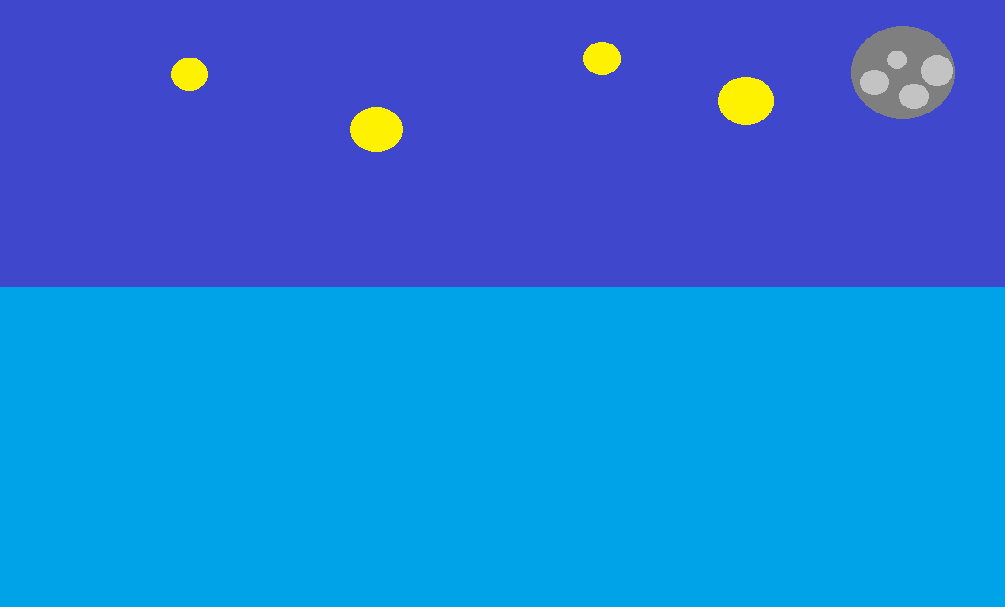
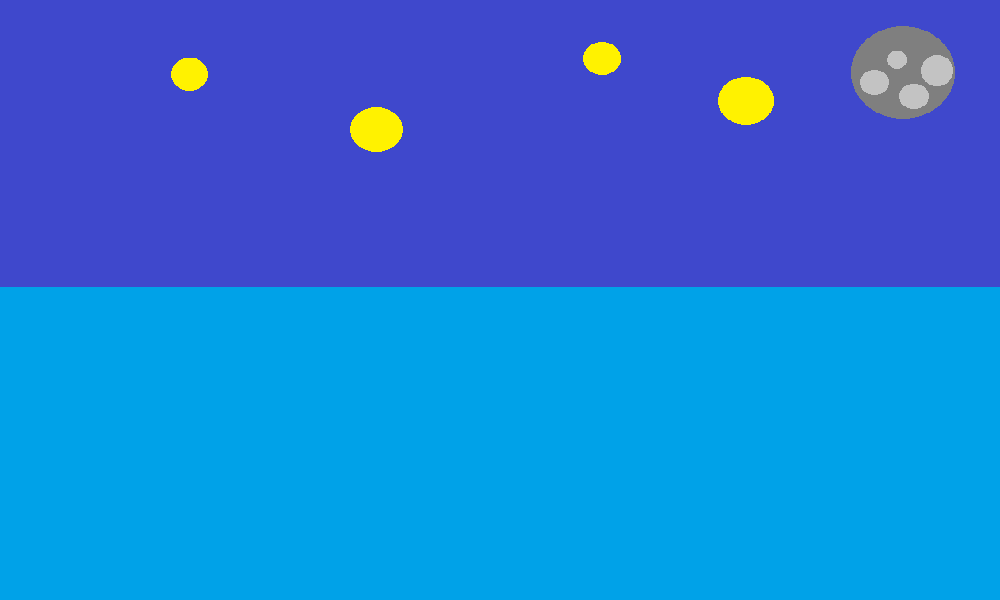
updates

diff --git a/BoatGame/boat.py b/BoatGame/boat.py
@@ -2,75 +2,255 @@ import pgzrun
 from random import randint
 
 WIDTH = 1000
-HEIGHT = 575
+HEIGHT = 600
+
+
 
 shop = Actor("shop")
 shop.pos = 900, 300
 sail = Actor("sail")
 sail.pos = 900, 200
 rock = Actor("rock")
-rock.pos = 1600, 400
+rock.pos = 1600, randint(350, 550)
 play = Actor("play")
 play.pos = 500, 257
 metalblock = Actor("metalblock")
+metalblock.pos = 210, 250
 stoneblock = Actor("stoneblock")
-woodblock = Actor("woodblock") 
+stoneblock.pos = 150, 250
+woodblock = Actor("woodblock")
+woodblock.pos = 90, 250 
 treasurechest = Actor("tresurechest")
+treasurechest.pos = 1600, 400
 flag = Actor("flag")
-game_over = False
+flag.pos = 270, 250
+
 sail_clicked_fun = False
 music_playing = False
 flagplaced = False
 playing = False
-number_of_rocks = 0
-
+number_of_rocks = 99
+money = 0
+woodcount = 5
+stoneblockcount = 2
+metalblockcount = 1
+flagcount = 1
+selected_block = None
+placed_blocks = []
 
 def draw():
     global sail_clicked_fun
     screen.blit("ocean", (0, 0))
     if playing:
-        if sail_clicked_fun and music_playing:        
-            rock.draw()
-        else:
+        if sail_clicked_fun and music_playing: 
+            if number_of_rocks >= 100:
+                treasurechest.draw()      
+            else:
+                rock.draw()
+            for block in placed_blocks:
+                block["actor"].draw()
+
+            screen.draw.text("Money: " + str(money), (500, 10), color="black")
+        else:           
+            #Drawing lines (Start position->(x.pos, y.pos), Stop position->(x.pos, y.pos), color)
+            #Horizontal
+            woodblock.draw()
+            stoneblock.draw()
+            metalblock.draw()
+            flag.draw()
+            for block in placed_blocks:
+                block["actor"].draw()
+
+            screen.draw.text("Money: " + str(money), (850, 520), color="black")
+                     
+            # Draw horizontal grid lines
+            for y in range(286, 600, 60):
+                screen.draw.line((0, y), (600, y), color="black")
+
+            # Draw vertical grid lines
+            for x in range(60, 601, 60):
+                screen.draw.line((x, 286), (x, 586), color="black")
+
+            # Build menu horizontal lines
+            screen.draw.line((60, 220), (300, 220), color="black")
+            screen.draw.line((60, 280), (300, 280), color="black")
+
+            # Build menu vertical dividers
+            for x in range(60, 301, 60):
+                screen.draw.line((x, 220), (x, 280), color="black")
+            
             sail.draw()
             shop.draw()
     else:
         play.draw()
     
-def on_mouse_down(pos):  
-    global playing, game_over 
-    if sail.collidepoint(pos): 
-        sail_clicked()
-    if play.collidepoint(pos) and not sail_clicked_fun:        
-        playing = True
-        buildmode()
-         
+def on_mouse_down(pos, button):
+    global playing, selected_block
+    if not playing or not sail_clicked_fun:  # 🔒 Only allow input before sailing
+        if button == mouse.LEFT:
+            if sail.collidepoint(pos):
+                sail_clicked()
+            elif play.collidepoint(pos) and not sail_clicked_fun:
+                playing = True
+            elif woodblock.collidepoint(pos):
+                selected_block = "wood"
+            elif stoneblock.collidepoint(pos):
+                selected_block = "stone"
+            elif metalblock.collidepoint(pos):
+                selected_block = "metal"
+            elif flag.collidepoint(pos):
+                selected_block = "flag"
+            else:
+                place_block(pos)
+        elif button == mouse.RIGHT:
+            delete_block(pos)
+
+
+        
+        
 def sail_clicked():
-    global sail_clicked_fun, music_playing        
+    global sail_clicked_fun, music_playing
+
+    # Prevent sailing if only a flag or no blocks
+    non_flag_blocks = [b for b in placed_blocks if b["type"] != "flag"]
+    if not non_flag_blocks:
+        return  # Block sailing
+
     sail_clicked_fun = True
     if not music_playing:
         music.play("vanishing-horizon")
         music_playing = True
+
         
         
 def update():
-    global rock, metalblock, stoneblock, woodblock, treasurechest, flag, number_of_rocks, sail_clicked_fun
-    if not game_over and sail_clicked_fun:
+    global rock, number_of_rocks, treasurechest, sail_clicked_fun, money, music_playing, sail_clicked_fun
+    global placed_blocks, flagplaced, flagcount, woodcount, stoneblockcount, metalblockcount
+    if sail_clicked_fun:
         if rock.right > 0:        
             rock.x -= 5
+            for block in placed_blocks[:]:
+                if rock.colliderect(block["actor"]):
+                    block["health"] -= 1
+                    if block["health"] <= 0:
+                        # Refill the count based on block type
+                        if block["type"] == "wood":
+                            woodcount += 1
+                        elif block["type"] == "stone":
+                            stoneblockcount += 1
+                        elif block["type"] == "metal":
+                            metalblockcount += 1
+                        elif block["type"] == "flag":
+                            flagcount += 1
+                        placed_blocks.remove(block)
+                    # Rock hit something, reset
+                    rock.x = 1600
+                    rock.y = randint(350, 550)
+                    number_of_rocks += 1
+                    money += 8
+                    break
         else:
+            # Rock missed everything, still reset!
             rock.x = 1600
-            rock.y = 400
+            rock.y = randint(350, 550)
             number_of_rocks += 1
-        
-def buildmode():
-    global metalblock, stoneblock, woodblock, treasurechest, flag, playing
-    metalblock.pos = 100, 400
-    stoneblock.pos = 300, 400
-    woodblock.pos = 500, 400
-    treasurechest.pos = 700, 400
-    flag.pos = 900, 400
-   
+            money += 8
+
+         # Check if the flag is broken
+        flag_broken = not any(block["type"] == "flag" for block in placed_blocks)
+
+        # Check if no blocks are left
+        no_blocks_left = len(placed_blocks) == 0
+
+        if flag_broken or no_blocks_left:
+            restart_game()  
+
+        if number_of_rocks >= 100:
+           if treasurechest.right > 0:
+                treasurechest.x -= 5
+                for block in placed_blocks[:]:
+                    if treasurechest.colliderect(block["actor"]):
+                        money += 1000
+                        chest_collected = True
+                        treasurechest.pos = (-200, 400)
+                        restart_game() 
+                        break
+                    else:
+                        money += 1000
+                        restart_game()      
+
+
+def place_block(pos):
+    global selected_block, woodcount, stoneblockcount, metalblockcount, flagcount
+    if selected_block:
+        x, y = pos
+        if 0 <= x <= 600 and 303 <= y < 583:
+            grid_x = (x // 60) * 60 + 30
+            grid_y = (y // 60) * 60 + 17
+
+            # Check if a block is already placed here
+            for block in placed_blocks:
+                if block["actor"].pos == (grid_x, grid_y):
+
+                    return  # Don't place over another block
+
+            new_block = None
+            if selected_block == "wood" and woodcount > 0:
+                new_block = Actor("woodblock")
+                woodcount -= 1
+            elif selected_block == "stone" and stoneblockcount > 0:
+                new_block = Actor("stoneblock")
+                stoneblockcount -= 1
+            elif selected_block == "metal" and metalblockcount > 0:
+                new_block = Actor("metalblock")
+                metalblockcount -= 1
+            elif selected_block == "flag" and flagcount > 0:
+                new_block = Actor("flag")
+                flagcount -= 1
+
+            if new_block:
+                new_block.pos = (grid_x, grid_y)
+
+                if selected_block == "wood":
+                    health = 1
+                elif selected_block == "stone":
+                    health = 2
+                elif selected_block == "metal":
+                    health = 9
+                elif selected_block == "flag":
+                    health = 1
+
+                placed_blocks.append({
+                    "actor": new_block,
+                    "type": selected_block,  # ← Add this line
+                    "health": health
+                })
+
+def delete_block(pos):
+    global woodcount, stoneblockcount, metalblockcount, flagcount
+    x, y = pos
+    for block in placed_blocks:
+        if block["actor"].collidepoint(pos):
+            img = block["actor"].image
+            if img == "woodblock":
+                woodcount += 1
+            elif img == "stoneblock":
+                stoneblockcount += 1
+            elif img == "metalblock":
+                metalblockcount += 1
+            elif img == "flag":
+                flagcount += 1
+            placed_blocks.remove(block)
+            break
+def restart_game():
+    global number_of_rocks, money, sail_clicked_fun, music_playing, game_over
+    global rock, treasurechest, placed_blocks
+    number_of_rocks = 0    
+    sail_clicked_fun = False
+    music_playing = False       
+    music.stop()
+    # Optionally reset block counts too:
     
-            
+
+
 pgzrun.go()
